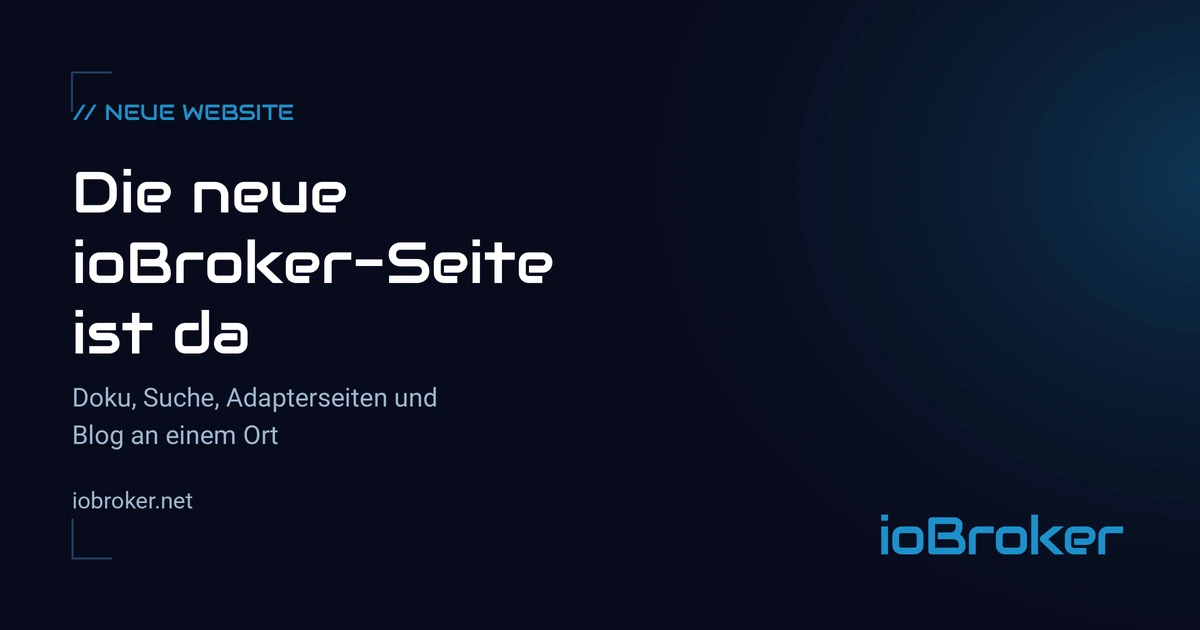
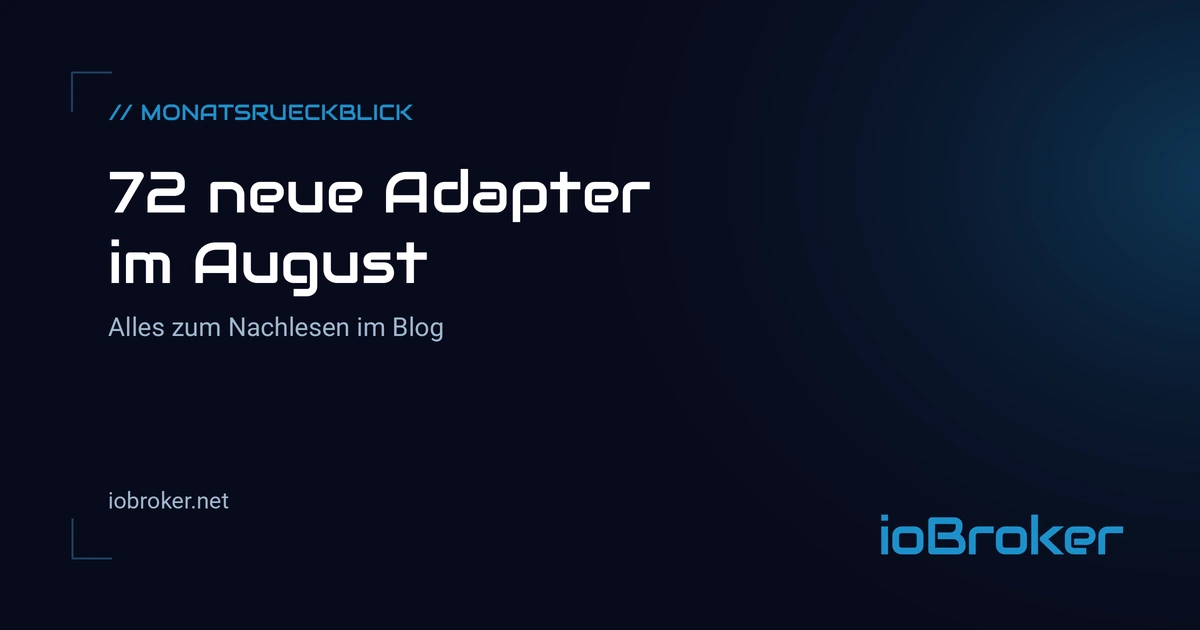
Redesign website

diff --git a/blog/social/social_templates.py b/blog/social/social_templates.py
@@ -126,6 +126,10 @@ def build(fmt, label, title, sub, image_path, claim, url, out):
     d = ImageDraw.Draw(img)
     brackets(d, spec, w, h)
 
+    # Der Text beginnt nicht auf der Klammer, sondern ein Stueck rechts davon.
+    # Sonst klebt die erste Zeile am senkrechten Arm.
+    x = pad + int(pad * 0.5)
+
     f_label = font(AUDIOWIDE, spec['label'])
     f_title = font(AUDIOWIDE, spec['title'])
     f_sub = font(ROBOTO, spec['sub'])
@@ -149,17 +153,17 @@ def build(fmt, label, title, sub, image_path, claim, url, out):
         y = int(h * 0.44 - block / 2)
 
     if label:
-        d.text((pad, y), '// ' + label.upper(), font=f_label, fill=ACCENT)
+        d.text((x, y), '// ' + label.upper(), font=f_label, fill=ACCENT)
         y += label_h
 
     for line in title_lines:
-        d.text((pad, y), line, font=f_title, fill=INK)
+        d.text((x, y), line, font=f_title, fill=INK)
         y += line_h
 
     if sub_lines:
         y += int(spec['sub'] * SCALE * 0.6)
         for line in sub_lines:
-            d.text((pad, y), line, font=f_sub, fill=INK_SOFT)
+            d.text((x, y), line, font=f_sub, fill=INK_SOFT)
             y += sub_h
 
     if image_path:
@@ -177,7 +181,7 @@ def build(fmt, label, title, sub, image_path, claim, url, out):
         f_url = font(ROBOTO, spec['sub'] * 0.9)
         box = d.textbbox((0, 0), url, font=f_url)
         arm = int(pad * 0.55)
-        d.text((pad, h - pad - arm - (box[3] - box[1]) - int(14 * SCALE)), url, font=f_url, fill=INK_SOFT)
+        d.text((x, h - pad - arm - (box[3] - box[1]) - int(14 * SCALE)), url, font=f_url, fill=INK_SOFT)
 
     if os.path.exists(WORDMARK):
         mark = Image.open(WORDMARK).convert('RGBA')

diff --git a/docs/de/admin/enums.md b/docs/de/admin/enums.md
@@ -1,6 +1,6 @@
 ---
 title:       "Kategorien"
-lastChanged: "07.09.2026"
+lastChanged: "16.09.2026"
 ---
 
 # Reiter Kategorien
@@ -17,32 +17,94 @@ Der Nutzen liegt bei allem, was darauf aufbaut: Visualisierungen, Sprachsteuerun
 zu. „Schalte das Licht im Wohnzimmer aus" funktioniert nur, wenn Raum und
 Funktion gepflegt sind.
 
-## Funktionen
+Oben im Reiter stehen drei Bereiche:
 
-<img src="media/admin_kategorien_funktionen.png" alt="Der Reiter Kategorien mit den Funktionen" width="900" />
+| Bereich | Wofür |
+|---|---|
+| **Kategorien** | Räume und Funktionen anlegen, umbenennen und ihre Mitglieder pflegen |
+| **Zuordnung** | eine Tabelle aller erkannten Geräte, um Lücken zu schließen |
+| **Assistent** | die Ersteinrichtung in fünf Schritten |
 
-Links stehen die Kategorien mit den zugeordneten Datenpunkten, rechts der
-Objektbaum. Ein Datenpunkt wird zugeordnet, indem er aus dem Baum auf die
-gewünschte Kategorie gezogen wird.
+## Kategorien
 
-Über der Liste stehen ein **Filter**, Schaltflächen zum Auf- und Zuklappen aller
-Kategorien und ein **+**, mit dem eine neue Kategorie angelegt wird. Das **+**
-ganz links oben legt eine Kategorie auf oberster Ebene an.
+### Funktionen
 
-## Räume
+<img src="media/admin_kategorien_funktionen.webp" alt="Der Bereich Kategorien mit den Funktionen" width="900" />
 
-<img src="media/admin_kategorien_raeume.png" alt="Der Reiter Kategorien mit den Raeumen" width="900" />
+Links steht die Liste der Kategorien, die Zahl dahinter nennt die Zahl der
+Mitglieder. Rechts stehen die Mitglieder der gewählten Kategorie: oben das Gerät
+oder der Kanal, darunter eingerückt die Datenpunkte. Am rechten Rand jeder Zeile
+zeigen kleine Schilder, in welchen anderen Kategorien der Eintrag noch steht, das
+**X** entfernt ihn aus der aktuellen.
 
-Die Räume funktionieren genauso. Über das Stiftsymbol neben dem Reiternamen
-lassen sich Name, Symbol und Farbe einer Kategorie ändern. Die Farbe färbt die
-ganze Gruppe ein und macht die Liste übersichtlich.
+Über der Liste sitzen ein **Filter** und ein **+**, das eine neue Kategorie
+anlegt. Über den Mitgliedern stehen der interne Name der Kategorie, etwa
+`enum.functions.Aktor`, und die Schaltflächen:
+
+| Schaltfläche | Wirkung |
+|---|---|
+| **Objekte hinzufügen** | öffnet die Auswahl und nimmt mehrere Datenpunkte auf einmal auf |
+| **+** | legt eine untergeordnete Kategorie an |
+| Stift | ändert Name, Symbol und Farbe |
+| Blätter | dupliziert die Kategorie |
+| Papierkorb | löscht sie, die Datenpunkte selbst bleiben |
+
+### Räume
+
+<img src="media/admin_kategorien_raeume.webp" alt="Der Bereich Kategorien mit den Raeumen" width="900" />
+
+Die Räume funktionieren genauso. Der farbige Balken links am Eintrag ist die
+Farbe der Kategorie, sie macht lange Listen übersichtlich.
 
 Räume dürfen verschachtelt werden: *Erdgeschoss* kann *Wohnzimmer* und *Küche*
-enthalten.
+enthalten. Die eingerückten Einträge in der Liste zeigen diese Ebenen.
+
+### Die Objektliste
+
+<img src="media/admin_kategorien_objektliste.webp" alt="Die ausgeklappte Objektliste neben den Kategorien" width="900" />
+
+Am rechten Rand liegt die **Objektliste** als Schublade. Ein Klick auf den
+senkrechten Schriftzug klappt sie auf und zeigt den Objektbaum. Von dort lässt
+sich ein Eintrag auf eine Kategorie ziehen. Wer viele Datenpunkte auf einmal
+zuordnen will, ist mit **Objekte hinzufügen** schneller.
+
+## Zuordnung
+
+<img src="media/admin_kategorien_zuordnung.webp" alt="Der Bereich Zuordnung mit der Tabelle aller Geraete" width="900" />
+
+Dieser Bereich dreht die Sache um: Statt von der Kategorie auszugehen, listet er
+alle Geräte und Kanäle auf und zeigt in zwei Spalten, welcher Raum und welche
+Funktion daran hängen. Über **+** kommt eine Zuordnung dazu, über das **X** an
+einem Schild geht sie weg.
+
+Oben stehen die Werkzeuge, um die Lücken zu finden:
+
+* ein **Filter** für den Namen
+* eine Auswahl der **Instanz**, etwa nur `alias.0`
+* die Schalter **Alle**, **Ohne Raum** und **Ohne Funktion**, jeweils mit Anzahl
+* **Nur erkannte Geräte**, das die Liste auf das beschränkt, was ioBroker als
+  Gerät erkannt hat
+
+Der Weg über **Ohne Raum** und **Ohne Funktion** ist der schnellste Weg zu einer
+vollständig gepflegten Anlage: die Liste wird abgearbeitet, bis die Zahl auf null
+steht.
+
+## Assistent
+
+<img src="media/admin_kategorien_assistent.webp" alt="Der Assistent, Schritt Raeume" width="900" />
+
+Der Assistent richtet Räume und Funktionen in fünf Schritten ein: **Etagen**,
+**Räume**, **Funktionen**, **Geräte zuordnen**, **Übersicht**. In den Schritten
+Räume und Funktionen stehen fertige Vorschläge als Kacheln bereit, angehakt und
+mit *Bereits vorhanden* beschriftet sind die, die es schon gibt. Was fehlt, wird
+angeklickt, eigene Namen kommen über **Benutzerdefiniert** dazu.
+
+?> Vorhandene Räume und Funktionen bleiben unverändert, der Assistent legt nur an
+und ordnet zu. Er eignet sich deshalb auch für eine Anlage, die schon läuft.
 
 ?> Zuordnen lässt sich ein Datenpunkt auch direkt im Reiter
 [Objekte](/docs/admin/objects.md) über die
-Spalten *Raum* und *Funktion*. Beide Wege ändern dieselben Objekte.
+Spalten *Raum* und *Funktion*. Alle Wege ändern dieselben Objekte.
 
 !> Zuordnungen gehören an den **Datenpunkt**, nicht an den Kanal oder das Gerät,
 sonst wissen die auswertenden Adapter nicht, welchen Wert sie schalten sollen.
